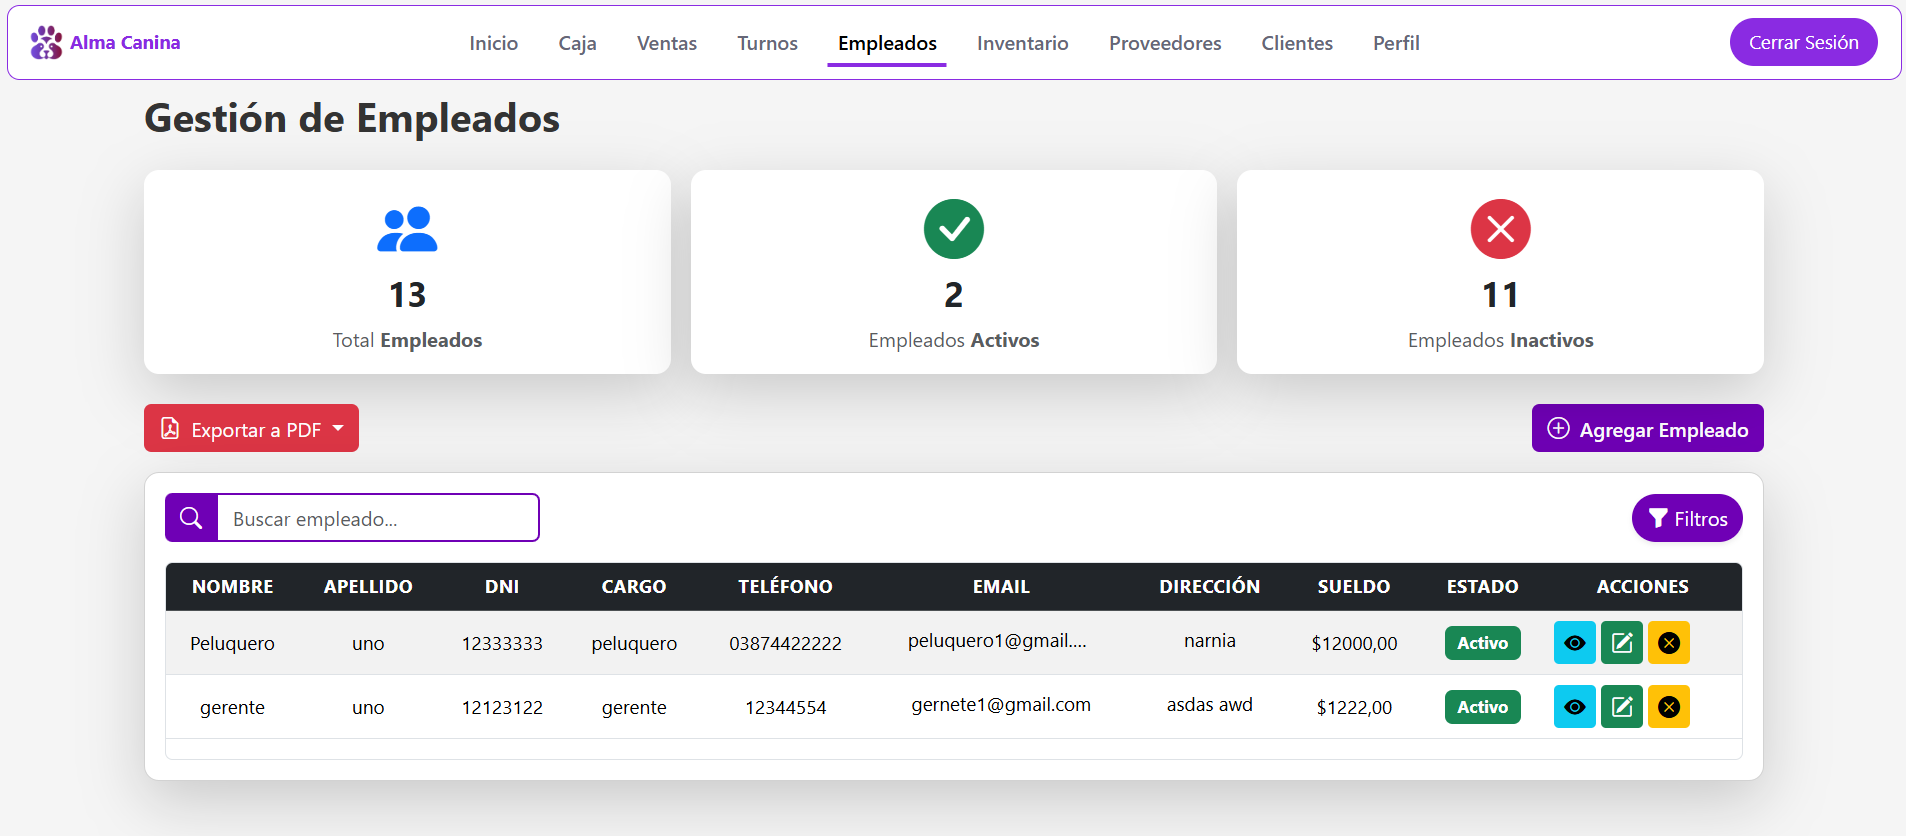
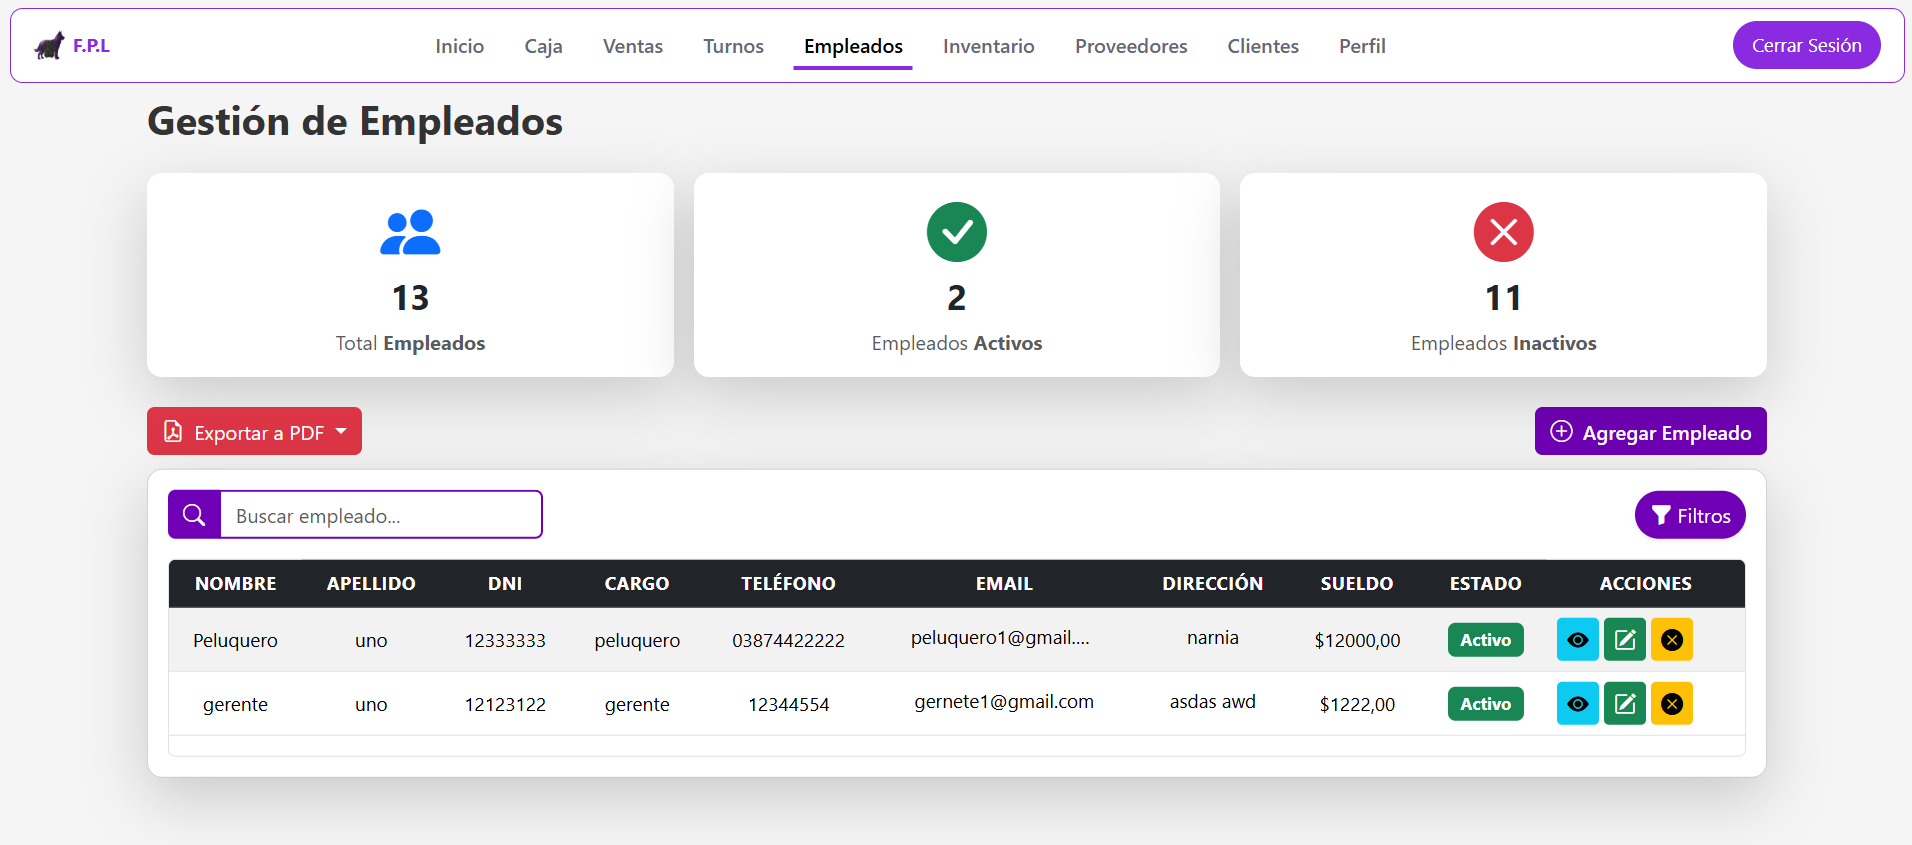
cambio de imagenes  portfolio terminado

diff --git a/src/components/Projects.jsx b/src/components/Projects.jsx
@@ -28,41 +28,46 @@ function Projects({ t }) {
       title: "Alma Canina ERP",
         images: [
               {
-                src: "/projects/erp/AdminTurnos.png",
+                src: "/projects/erp/turnocli.png",
+                title: "Turno vista cliente",
+              },
+              {
+                src: "/projects/erp/inicio.png",
+                title: "Inicio",
+              },  
+              {
+                src: "/projects/erp/turnoemp.png",
                 title: "Administración de turnos",
               },
               {
-                src: "/projects/erp/CajaAbierta.png",
-                title: "Gestión y apertura de caja",
-              },
-              {
-                src: "/projects/erp/CalendarioTurno.png",
+                src: "/projects/erp/calendario.png",
                 title: "Calendario de turnos",
               },
               {
-                src: "/projects/erp/Empleados.png",
+                src: "/projects/erp/detalleturno.png",
+                title: "informacion adicional sobre el truno",
+              },
+              {
+                src: "/projects/erp/caja.png",
+                title: "Gestión y apertura de caja",
+              },
+              
+              
+              {
+                src: "/projects/erp/empleados.png",
                 title: "Gestión de empleados",
               },
+              
+             
               {
-                src: "/projects/erp/HistorialCaja.png",
-                title: "Historial de caja",
-              },
-              {
-                src: "/projects/erp/Perfil.png",
-                title: "Perfil de usuario",
-              },
-              {
-                src: "/projects/erp/Productos.png",
+                src: "/projects/erp/inventario.png",
                 title: "Gestión de productos e inventario",
               },
               {
-                src: "/projects/erp/Proveedores.png",
+                src: "/projects/erp/proveedores.png",
                 title: "Gestión de proveedores",
               },
-              {
-                src: "/projects/erp/TurnoCli.png",
-                title: "Reserva de turnos",
-              },
+              
             ],
           },
     mobile: {
@@ -74,15 +79,15 @@ function Projects({ t }) {
             title: "Inicio / Dashboard: Resumen rápido del día",
           },
           {
-            src: "/projects/mobile/login.jpeg",
+            src: "/projects/mobile/agenda.png",
             title: "Agenda: Vista completa del calendario",
           },
           {
-            src: "/projects/mobile/produ.jpeg",
+            src: "/projects/mobile/produ_serv.png",
             title: "Catálogo de Servicios & Productos:",
           },
           {
-            src: "/projects/mobile/crearp.jpeg",
+            src: "/projects/mobile/g_personal.png",
             title: "Gestión de Personal:",
           },
           

diff --git a/src/locales/en.js b/src/locales/en.js
@@ -65,7 +65,7 @@ const en = {
 
     erp: {
       type: "ERP SYSTEM · FULL STACK",
-      title: "Alma Canina ERP",
+      title: "F.P Laura ERP",
       description:
         "Web-based ERP system developed for the comprehensive management of a pet food store and dog grooming business. It centralizes the main business operations on a single platform.",
       technologies: "Technologies",

diff --git a/src/locales/es.js b/src/locales/es.js
@@ -66,7 +66,7 @@ const es = {
 
     erp: {
       type: "SISTEMA ERP · FULL STACK",
-      title: "Alma Canina ERP",
+      title: "F.P Laura ERP",
       description:
         "Sistema ERP web desarrollado para la gestión integral de una forrajería y peluquería canina. Centraliza las principales operaciones del negocio en una única plataforma.",
       technologies: "Tecnologías",
